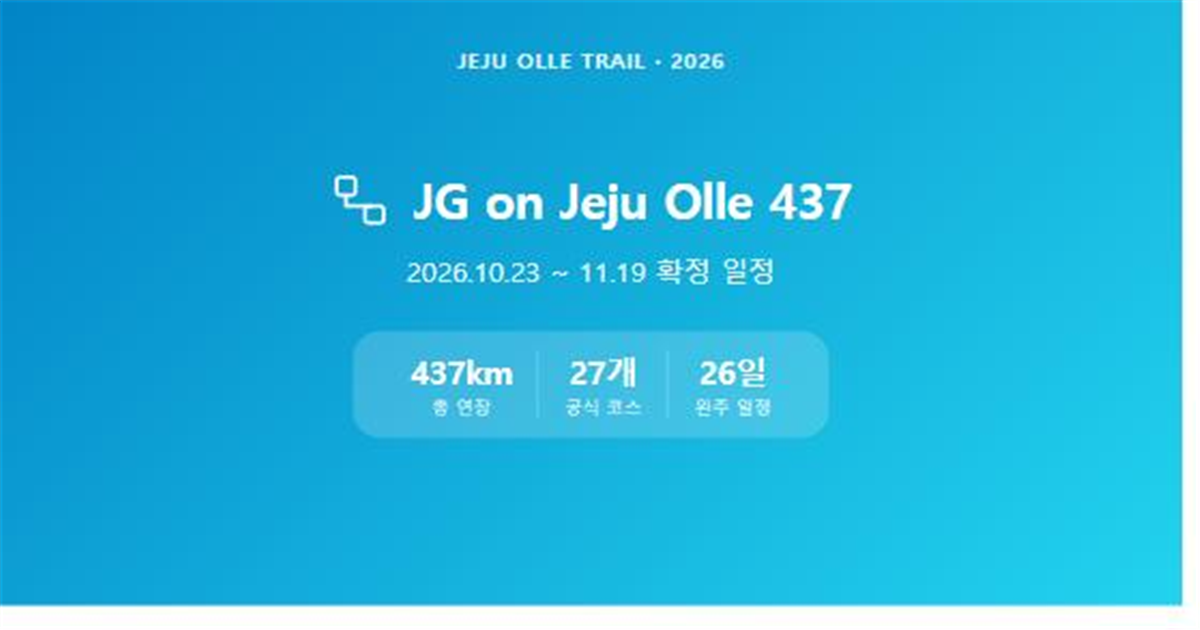
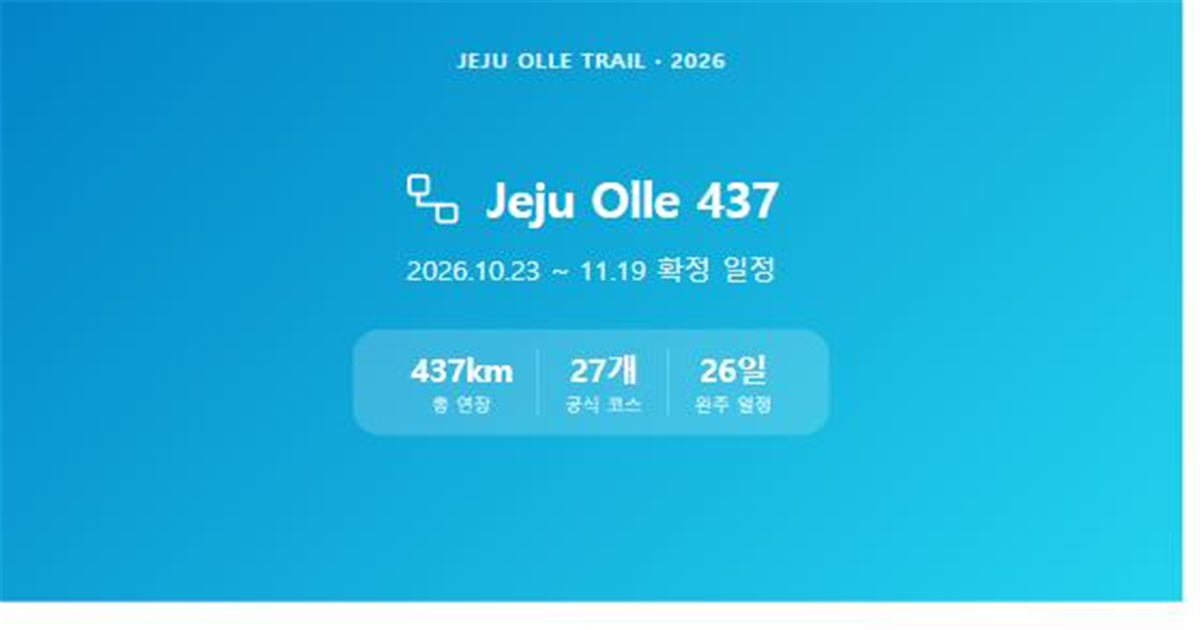
Sync share title to "Jeju Olle 437", add wanderer illustration
Regenerates og-share.png and updates OG/Twitter meta title to match
the shortened home hero. Also adds a Strider-esque wanderer
illustration next to the home footer's "Not all who wander are lost"
quote, tying the Tolkien reference directly to a visual.

diff --git a/index.html b/index.html
@@ -9,8 +9,8 @@
     <meta name="description" content="437km 27개 코스, 26일 완주 일정 · 제주올레길 완주 트래커" />
 
     <meta property="og:type" content="website" />
-    <meta property="og:site_name" content="JG on Jeju Olle 437" />
-    <meta property="og:title" content="JG on Jeju Olle 437" />
+    <meta property="og:site_name" content="Jeju Olle 437" />
+    <meta property="og:title" content="Jeju Olle 437" />
     <meta property="og:description" content="437km 27개 코스, 26일 완주 일정 · 제주올레길 완주 트래커" />
     <meta property="og:url" content="https://jgjeong730.github.io/jejutrekking1/" />
     <meta property="og:image" content="https://jgjeong730.github.io/jejutrekking1/images/og-share.png" />
@@ -18,7 +18,7 @@
     <meta property="og:image:height" content="630" />
 
     <meta name="twitter:card" content="summary_large_image" />
-    <meta name="twitter:title" content="JG on Jeju Olle 437" />
+    <meta name="twitter:title" content="Jeju Olle 437" />
     <meta name="twitter:description" content="437km 27개 코스, 26일 완주 일정 · 제주올레길 완주 트래커" />
     <meta name="twitter:image" content="https://jgjeong730.github.io/jejutrekking1/images/og-share.png" />
   </head>

diff --git a/src/pages/OlleHome.tsx b/src/pages/OlleHome.tsx
@@ -127,9 +127,16 @@ const OlleHome: React.FC = () => {
       </div>
 
       {/* Quote — CURRENT_EXPEDITION swaps each time a new trail starts (Olle → Baekdu → Yarigatake → ... → JMT) */}
-      <div className="mx-4 mt-4 mb-2 bg-white rounded-2xl shadow-sm border border-gray-100 p-5 text-center">
-        <p className="text-gray-800 text-lg italic font-bold leading-snug">"Not all who wander are lost"</p>
-        <p className="text-sky-600 text-base mt-1.5 font-black tracking-wide">{CURRENT_EXPEDITION} to JMT</p>
+      <div className="mx-4 mt-4 mb-2 bg-white rounded-2xl shadow-sm border border-gray-100 p-5 flex items-center gap-4">
+        <div className="flex-1 min-w-0">
+          <p className="text-gray-800 text-lg italic font-bold leading-snug">"Not all who wander are lost"</p>
+          <p className="text-sky-600 text-base mt-1.5 font-black tracking-wide">{CURRENT_EXPEDITION} to JMT</p>
+        </div>
+        <img
+          src={`${import.meta.env.BASE_URL}images/wanderer.jpg`}
+          alt="Jeju Olle Trail wanderer illustration"
+          className="w-20 h-28 object-cover rounded-xl border border-gray-100 shadow-sm flex-shrink-0"
+        />
       </div>
     </div>
   );

diff --git a/scripts/og-image-template.html b/scripts/og-image-template.html
@@ -57,7 +57,7 @@
       <path d="M12.5 20 V29 H33" stroke="white" stroke-width="3" stroke-linecap="round" stroke-linejoin="round" />
       <rect x="28" y="29" width="15" height="14" rx="3" stroke="white" stroke-width="3" />
     </svg>
-    <div class="title">JG on Jeju Olle 437</div>
+    <div class="title">Jeju Olle 437</div>
   </div>
   <div class="subtitle">2026.10.23 ~ 11.19 확정 일정</div>
   <div class="stats">
